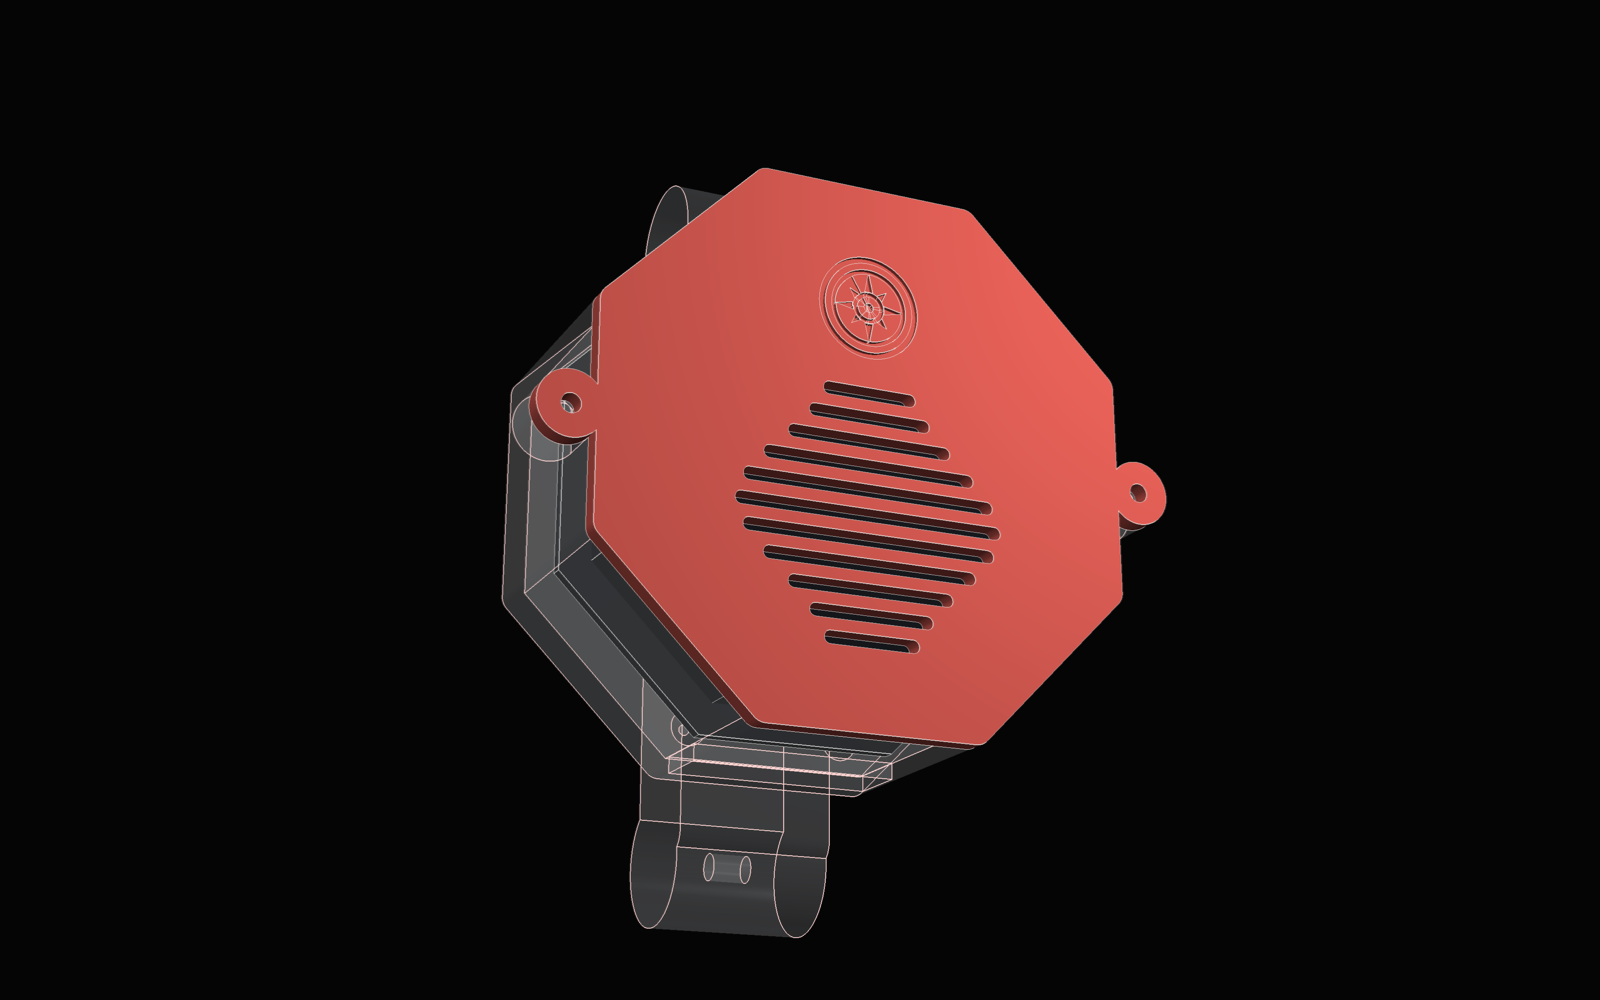
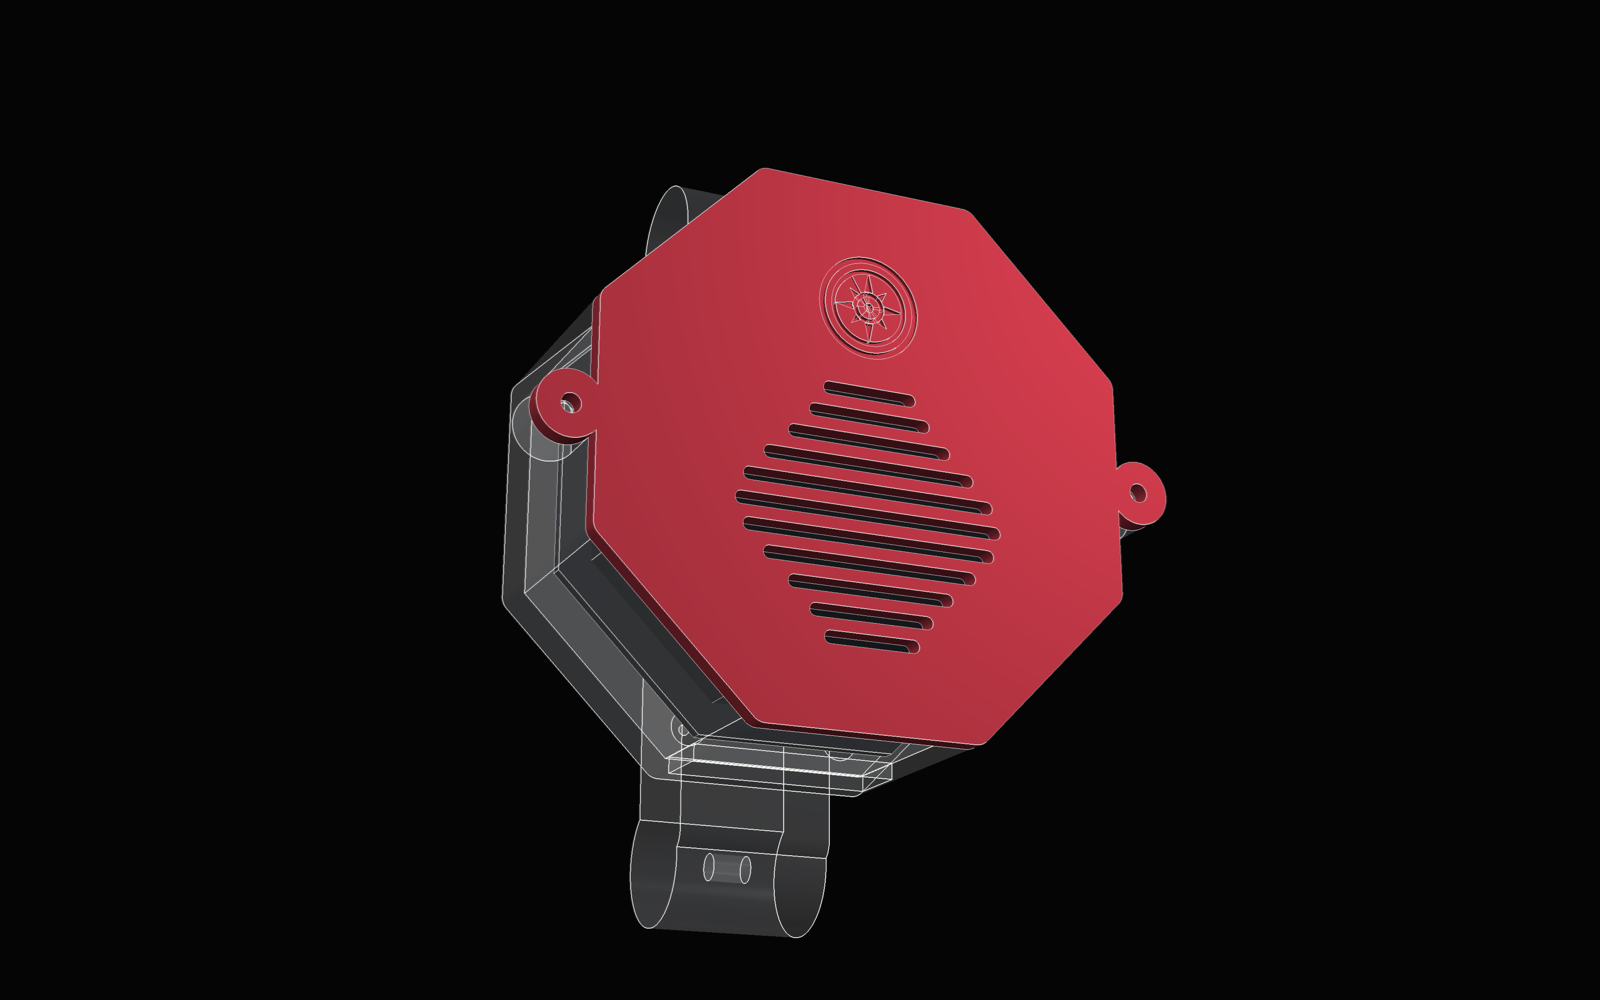
EEG headset frame in the red-pink #e64254 with clear glass parts: renders, render.py, READMEs, viewer colours

Changed region(s): [[0.3125, 0.155, 0.75, 0.744]]

diff --git a/software/eeg-viewer/eeg-viewer.js b/software/eeg-viewer/eeg-viewer.js
@@ -91,7 +91,7 @@ if (typeof module !== "undefined" && module.exports) module.exports = EEGVCodec;
   // ---------- colours (the canvas paints its own dark panel, like every console) ----------
   var C = {
     ink: "#0a0b0d", line: "rgba(236,233,226,0.12)", line2: "rgba(236,233,226,0.26)",
-    text: "#f0eee6", dim: "rgba(240,238,230,0.56)", coral: "#ff6b61", gold: "#d6ab71",
+    text: "#f0eee6", dim: "rgba(240,238,230,0.56)", coral: "#e64254", gold: "#d6ab71",
     live: "#6fbf73", bad: "#e2574c"
   };
   var MONO = '"IBM Plex Mono", ui-monospace, Menlo, monospace';
@@ -349,7 +349,7 @@ if (typeof module !== "undefined" && module.exports) module.exports = EEGVCodec;
     g.font = (9 * d) + "px " + MONO; g.textBaseline = "middle"; g.textAlign = "center";
     // alpha band shade
     var xa = l + (W - l - r) * 8 / fmax, xb = l + (W - l - r) * 13 / fmax;
-    g.fillStyle = "rgba(255,107,97,0.10)"; g.fillRect(xa, t, xb - xa, H - t - b);
+    g.fillStyle = "rgba(230, 66, 84,0.10)"; g.fillRect(xa, t, xb - xa, H - t - b);
     g.strokeStyle = C.line; g.lineWidth = 1;
     [0, 10, 20, 30, 40].forEach(function (f) {
       var x = l + (W - l - r) * f / fmax;
@@ -388,7 +388,7 @@ if (typeof module !== "undefined" && module.exports) module.exports = EEGVCodec;
       var rr = Math.min(1.02, p[0] / 90) * R, a = p[1] * Math.PI / 180;
       var x = cx - rr * Math.sin(a), y = cy - rr * Math.cos(a);
       var v = S.chanPow[c] ? S.chanPow[c].alpha / maxA : 0, rad = Math.max(10 * d, R * 0.1);
-      g.fillStyle = "rgba(255,107,97," + (0.08 + 0.88 * v).toFixed(3) + ")";
+      g.fillStyle = "rgba(230, 66, 84," + (0.08 + 0.88 * v).toFixed(3) + ")";
       g.beginPath(); g.arc(x, y, rad, 0, 2 * Math.PI); g.fill();
       g.strokeStyle = S.focus.indexOf(l) >= 0 ? C.coral : C.line2; g.lineWidth = 1 * d; g.stroke();
       g.fillStyle = v > 0.55 ? C.ink : C.text; g.font = "500 " + Math.round(Math.max(8.5 * d, rad * 0.62)) + "px " + MONO;

diff --git a/software/eeg-viewer/index.html b/software/eeg-viewer/index.html
@@ -11,7 +11,7 @@ html, body { margin: 0; background: #0a0b0d; color: #f0eee6; }
 body { padding: 0; }
 .tcai-console { margin: 0 !important; border: 0 !important; }
 .page-foot { font: 12px "IBM Plex Mono", monospace; color: rgba(240,238,230,0.56); padding: 12px 16px 24px; }
-.page-foot a { color: #ff6b61; }
+.page-foot a { color: #e64254; }
 </style>
 <style>
 /* Shared console chrome.
@@ -629,8 +629,8 @@ body { padding: 0; }
 }
 
 
-#eegv { --con-accent: #ff6b61; }
-#eegv .con-btn[aria-pressed="true"], #eegv .con-btn.is-active { background: rgba(255, 107, 97, 0.12); }
+#eegv { --con-accent: #e64254; }
+#eegv .con-btn[aria-pressed="true"], #eegv .con-btn.is-active { background: rgba(230, 66, 84, 0.12); }
 #eegv .con-canvas { height: 62vh; min-height: 460px; max-height: 720px; cursor: default; }
 @media (max-width: 60em) { #eegv .con-canvas { height: 118vw; min-height: 440px; max-height: 680px; } }
 #eegv [hidden] { display: none !important; }
@@ -689,7 +689,7 @@ body { padding: 0; }
       <rect x="3.5" y="3.5" width="41" height="41" stroke="rgba(236,233,226,0.26)" />
       <circle cx="24" cy="25" r="13" stroke="rgba(236,233,226,0.7)" />
       <path d="M20.5 12.4 L24 8.5 L27.5 12.4" stroke="rgba(236,233,226,0.7)" />
-      <path d="M8 31 L13 31 L15 25 L18 35 L21 27 L24 31 L40 31" stroke="#ff6b61" />
+      <path d="M8 31 L13 31 L15 25 L18 35 L21 27 L24 31 L40 31" stroke="#e64254" />
     </svg>
     <div class="con-head-id">
       <span class="con-head-title">Open EEG Viewer</span>

diff --git a/render.py b/render.py
@@ -59,8 +59,8 @@ def mesh(part, offset=(0, 0, 0)):
 
 
 HEAD = "#2a2d33"           # head model, dark and part transparent
-PINK = "#ff6b61"           # film accent (red coral), EEG frame and covers
-GLASS = "glass"            # clear part: light tint, bright pink-white edges
+PINK = "#e64254"           # film key word red-pink (owner 2026-11-19, was #ff6b61), EEG frame and covers
+GLASS = "glass"            # clear part: light tint, neutral white edges (never pink)
 
 
 def add_part(plotter, surface, colour, line_opacity=0.55):
@@ -72,7 +72,7 @@ def add_part(plotter, surface, colour, line_opacity=0.55):
                                               boundary_edges=True,
                                               non_manifold_edges=False,
                                               manifold_edges=False)
-        plotter.add_mesh(edges, color="#ffd6d3", line_width=1.8,
+        plotter.add_mesh(edges, color="#f5f5f2", line_width=1.8,
                          opacity=0.85)
         return
     if colour == HEAD:

diff --git a/README.md b/README.md
@@ -45,7 +45,7 @@ may appear on a part that is sold. See [NOTICE](NOTICE).
 | `branded` | Project mark and the source URL | Personal prints only. Never sold, never listed on a print service |
 
 The shape is the same. Renders use the project's colours: near black background, orange
-`#ff6f40` (Tang Nano case) or coral `#ff6b61` with clear parts (EEG frame), cream, thin near white edge lines, and the main logo at the bottom right
+`#ff6f40` (Tang Nano case) or red-pink `#e64254` with clear glass parts (EEG frame), cream, thin near white edge lines, and the main logo at the bottom right
 (`python render.py <design>`). Copies without the logo go to `renders/listing/` for print service
 listings. All parts share one shape language (`common/style.py`): the same edge
 radius and chamfer, and a row of vent slots whose lengths follow a Boltzmann distribution,

diff --git a/designs/eeg-headset-frame/README.md b/designs/eeg-headset-frame/README.md
@@ -17,7 +17,7 @@ See the signal live in the browser: [Open EEG Viewer](https://theconsciousness.a
 
 Renders, not photos. The glass shape is the ellipsoid head model used for the checks. The dark
 octagon is a simplified model of the Cyton board, and the dark block under it is the battery.
-The frame and the cover are coral (`#ff6b61`). The pod and the 16 carriers are clear.
+The frame and the cover are red-pink (`#e64254`, the film key word colour). The pod and the 16 carriers are clear glass.
 
 | | |
 |---|---|
